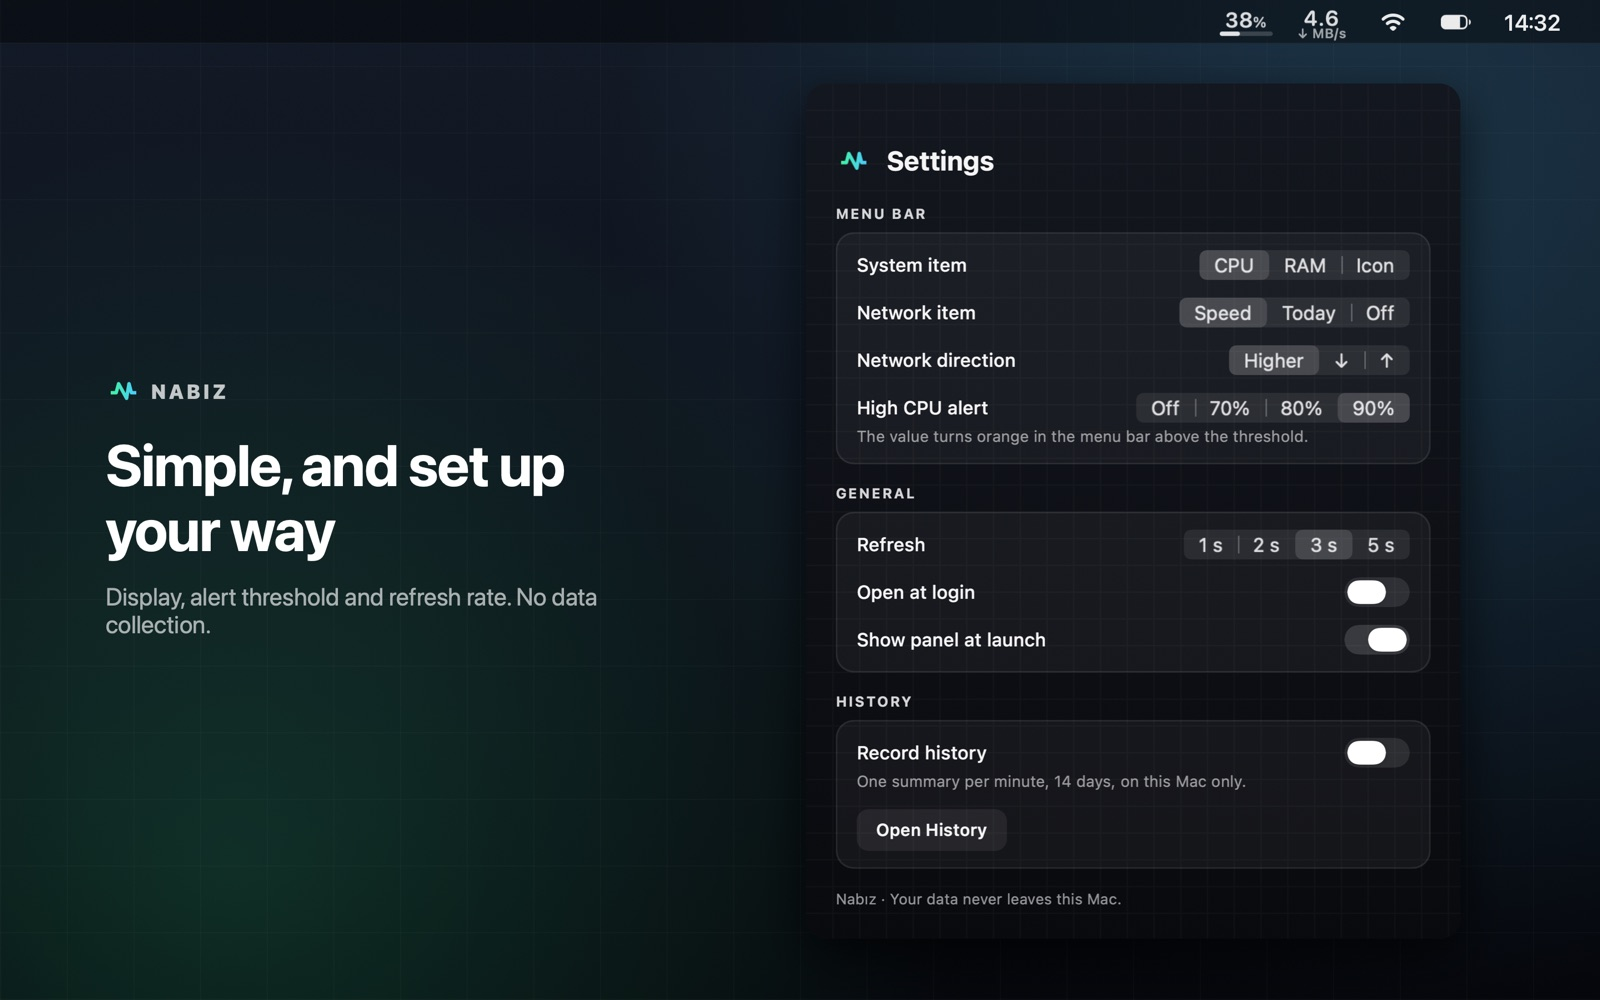
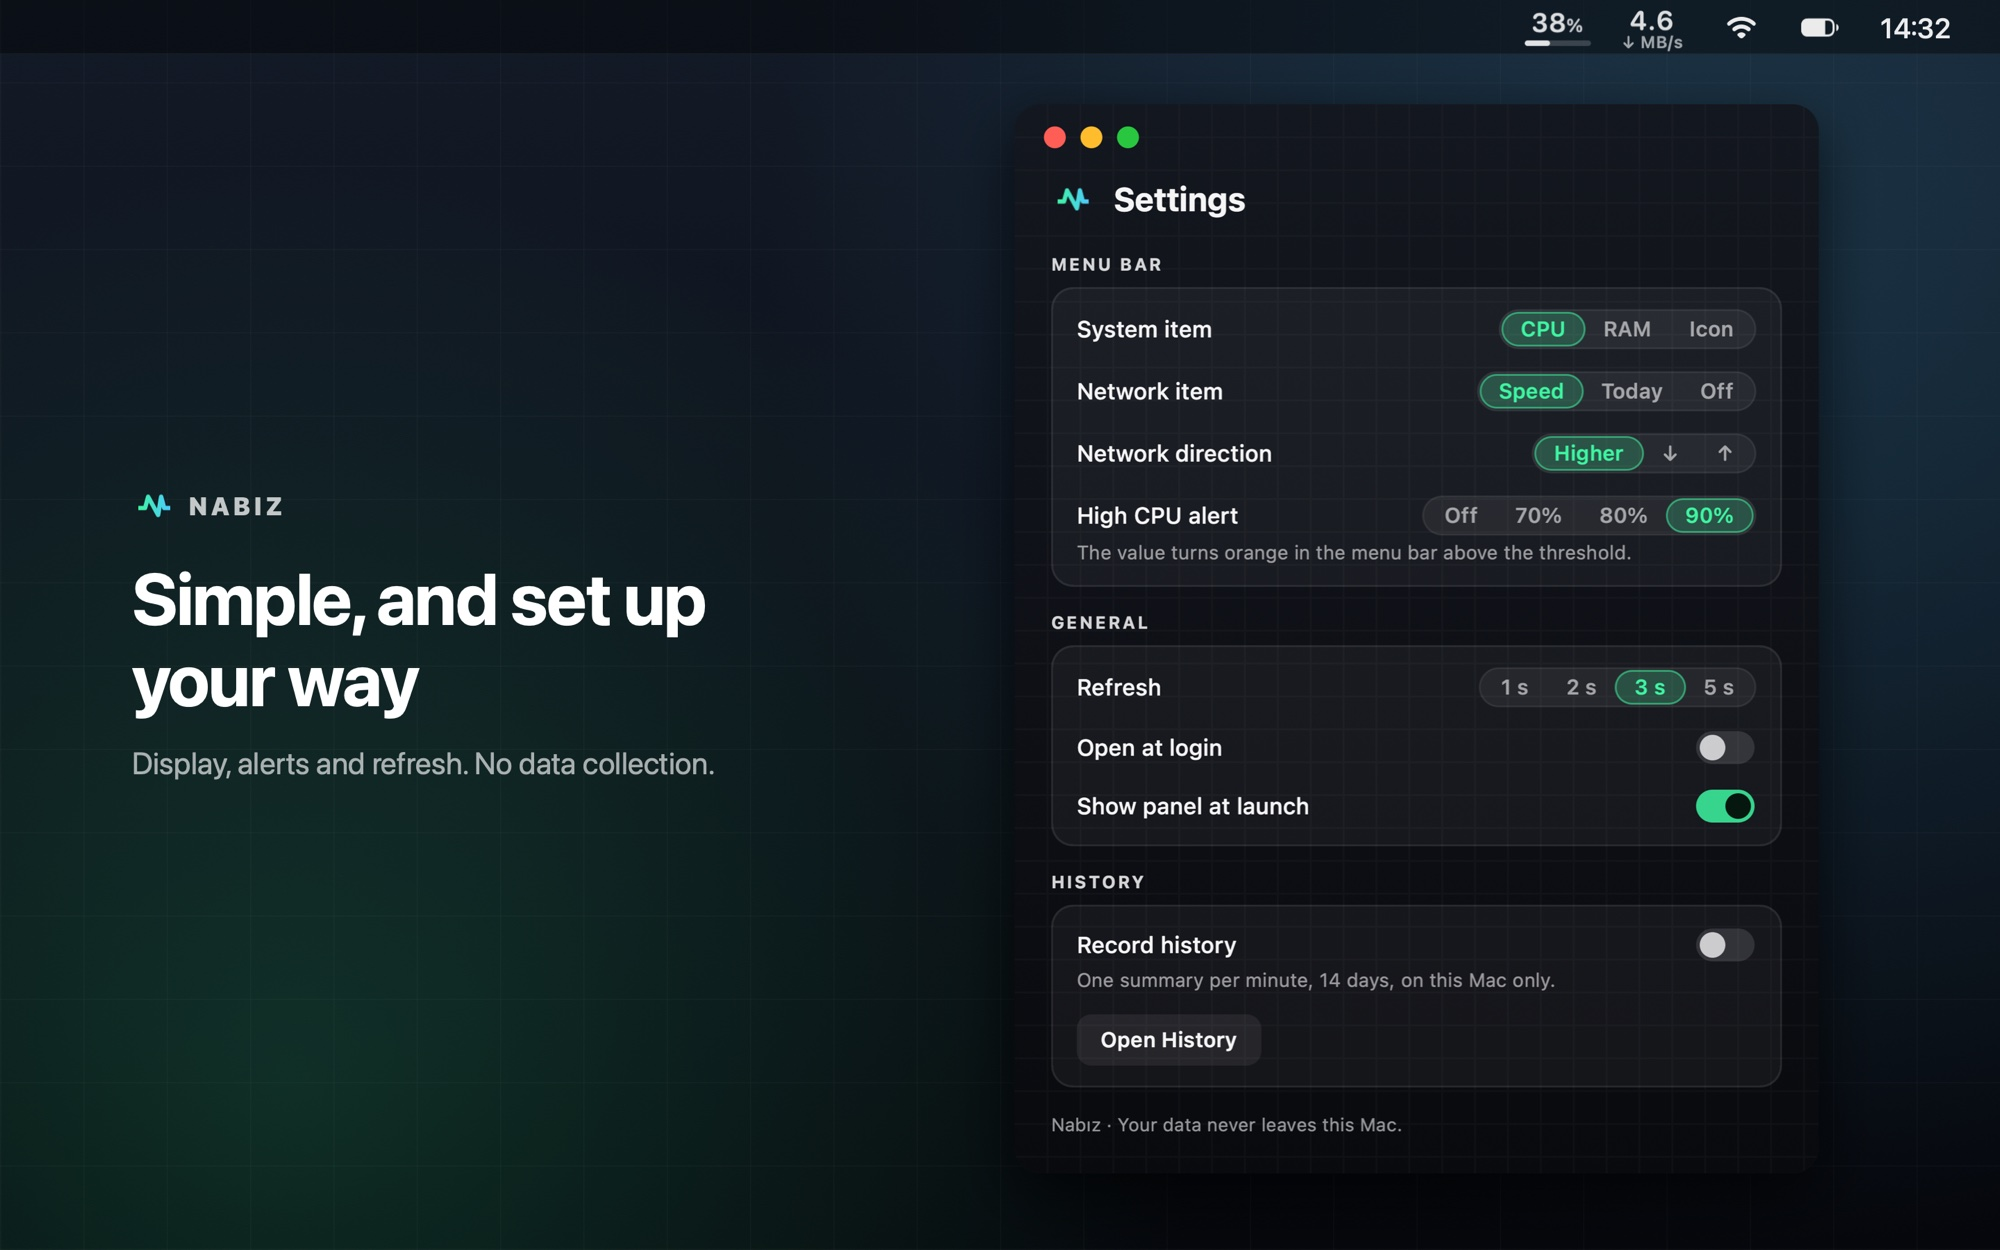
Custom green controls, roomier menu bar items, sharper images

diff --git a/app/Panels.swift b/app/Panels.swift
@@ -17,6 +17,8 @@ enum Vital {
     static let faint=NSColor(white:1,alpha:0.34)
     static let surface=NSColor(white:1,alpha:0.045)
     static let line=NSColor(white:1,alpha:0.08)
+    /// Seçili bölüm (segmented) rengi: pencere etkin olmasa da seçim okunur.
+    static let accent=NSColor(srgbRed:0.16,green:0.47,blue:0.86,alpha:1)
 }
 
 /// Panellerin ortak eylemleri. AppDelegate bağlar; paneller yalnız gösterir.
@@ -505,4 +507,62 @@ enum NabizMark {
             return true
         }
     }
+}
+
+/// Nabız anahtarı: açıkken yeşil, kapalıyken sönük. Pencere etkin olmasa da durumu okunur.
+final class PulseSwitch: NSControl {
+    var state:NSControl.StateValue = .off {didSet{needsDisplay=true;setAccessibilityValue(state == .on ? 1:0)}}
+    override init(frame:NSRect){super.init(frame:frame);translatesAutoresizingMaskIntoConstraints=false
+        NSLayoutConstraint.activate([widthAnchor.constraint(equalToConstant:34),heightAnchor.constraint(equalToConstant:20)])
+        setAccessibilityElement(true);setAccessibilityRole(.checkBox)}
+    convenience init(){self.init(frame:.zero)}
+    required init?(coder:NSCoder){fatalError()}
+    override var intrinsicContentSize:NSSize {NSSize(width:34,height:20)}
+    override func draw(_ dirtyRect:NSRect) {
+        let on=state == .on,track=bounds.insetBy(dx:1,dy:1)
+        (on ? Vital.cpu.withAlphaComponent(0.85):NSColor(white:1,alpha:0.12)).setFill()
+        NSBezierPath(roundedRect:track,xRadius:track.height/2,yRadius:track.height/2).fill()
+        let d=track.height-4,knob=NSRect(x:on ? track.maxX-d-2:track.minX+2,y:track.minY+2,width:d,height:d)
+        (on ? NSColor(srgbRed:0.02,green:0.09,blue:0.06,alpha:1):NSColor(white:1,alpha:0.75)).setFill()
+        NSBezierPath(ovalIn:knob).fill()
+    }
+    override func mouseDown(with event:NSEvent){state = state == .on ? .off:.on;sendAction(action,to:target)}
+    override func accessibilityPerformPress()->Bool{mouseDown(with:NSEvent());return true}
+    override func acceptsFirstMouse(for event:NSEvent?)->Bool{true}
+}
+
+/// Nabız bölümlü seçici: kapsül iz, seçili bölüm yeşil dolgulu.
+final class PulseSegments: NSControl {
+    let labels:[String]
+    var selectedSegment=0 {didSet{needsDisplay=true;setAccessibilityValue(labels.indices.contains(selectedSegment) ? labels[selectedSegment]:"")}}
+    private let labelFont=NSFont.systemFont(ofSize:11.5,weight:.semibold)
+    private var widths:[CGFloat] {labels.map{ceil(NSAttributedString(string:$0,attributes:[.font:labelFont]).size().width)+20}}
+    init(labels:[String]){self.labels=labels;super.init(frame:.zero);translatesAutoresizingMaskIntoConstraints=false
+        setAccessibilityElement(true);setAccessibilityRole(.radioGroup)}
+    required init?(coder:NSCoder){fatalError()}
+    override var intrinsicContentSize:NSSize {NSSize(width:widths.reduce(4,+),height:22)}
+    private func rects()->[NSRect] {
+        var x:CGFloat=2;return widths.map{w in defer{x+=w};return NSRect(x:x,y:2,width:w,height:bounds.height-4)}
+    }
+    override func draw(_ dirtyRect:NSRect) {
+        let track=bounds.insetBy(dx:0.5,dy:0.5)
+        NSColor(white:1,alpha:0.06).setFill();let tp=NSBezierPath(roundedRect:track,xRadius:track.height/2,yRadius:track.height/2);tp.fill()
+        Vital.line.setStroke();tp.lineWidth=1;tp.stroke()
+        for (i,r) in rects().enumerated() {
+            let selected=i==selectedSegment
+            if selected {
+                Vital.cpu.withAlphaComponent(0.2).setFill()
+                let p=NSBezierPath(roundedRect:r,xRadius:r.height/2,yRadius:r.height/2);p.fill()
+                Vital.cpu.withAlphaComponent(0.55).setStroke();p.lineWidth=1;p.stroke()
+            }
+            let s=NSAttributedString(string:labels[i],attributes:[.font:labelFont,.foregroundColor:selected ? Vital.cpu:Vital.dim])
+            let size=s.size();s.draw(at:NSPoint(x:r.midX-size.width/2,y:r.midY-size.height/2))
+        }
+    }
+    override func mouseDown(with event:NSEvent) {
+        let p=convert(event.locationInWindow,from:nil)
+        guard let i=rects().firstIndex(where:{$0.contains(p)}),i != selectedSegment else {return}
+        selectedSegment=i;sendAction(action,to:target)
+    }
+    override func acceptsFirstMouse(for event:NSEvent?)->Bool{true}
 }

diff --git a/app/Settings.swift b/app/Settings.swift
@@ -52,15 +52,15 @@ final class SettingsController:NSWindowController,NSWindowDelegate {
     var onOpenHistory:(()->Void)?
     var onClose:(()->Void)?
 
-    private let systemMode=NSSegmentedControl(labels:[L("CPU","CPU"),L("RAM","RAM"),L("Simge","Icon")],trackingMode:.selectOne,target:nil,action:nil)
-    private let networkMode=NSSegmentedControl(labels:[L("Hız","Speed"),L("Bugün","Today"),L("Gizli","Off")],trackingMode:.selectOne,target:nil,action:nil)
-    private let direction=NSSegmentedControl(labels:[L("Büyük olan","Higher"),"↓","↑"],trackingMode:.selectOne,target:nil,action:nil)
-    private let alert=NSSegmentedControl(labels:[L("Kapalı","Off")]+Prefs.thresholds.map{"\($0)%"},trackingMode:.selectOne,target:nil,action:nil)
-    private let interval=NSSegmentedControl(labels:Prefs.intervals.map{"\($0) "+L("sn","s")},trackingMode:.selectOne,target:nil,action:nil)
-    private let login=NSSwitch()
+    private let systemMode=PulseSegments(labels:[L("CPU","CPU"),L("RAM","RAM"),L("Simge","Icon")])
+    private let networkMode=PulseSegments(labels:[L("Hız","Speed"),L("Bugün","Today"),L("Gizli","Off")])
+    private let direction=PulseSegments(labels:[L("Büyük olan","Higher"),"↓","↑"])
+    private let alert=PulseSegments(labels:[L("Kapalı","Off")]+Prefs.thresholds.map{"\($0)%"})
+    private let interval=PulseSegments(labels:Prefs.intervals.map{"\($0) "+L("sn","s")})
+    private let login=PulseSwitch()
     private let loginNote=NSTextField(wrappingLabelWithString:"")
-    private let showOnLaunch=NSSwitch()
-    private let history=NSSwitch()
+    private let showOnLaunch=PulseSwitch()
+    private let history=PulseSwitch()
     private var directionRow:NSView!
     private let root=NSStackView()
 
@@ -74,8 +74,8 @@ final class SettingsController:NSWindowController,NSWindowDelegate {
         root.translatesAutoresizingMaskIntoConstraints=false;background.addSubview(root)
         NSLayoutConstraint.activate([root.leadingAnchor.constraint(equalTo:background.leadingAnchor,constant:20),root.topAnchor.constraint(equalTo:background.topAnchor,constant:40),root.widthAnchor.constraint(equalToConstant:Self.width)])
 
-        for control in [systemMode,networkMode,direction,alert,interval] {control.target=self;control.action=#selector(changed);control.controlSize = .small;control.segmentStyle = .rounded}
-        for control in [login,showOnLaunch,history] {control.target=self;control.controlSize = .small}
+        for control in [systemMode,networkMode,direction,alert,interval] {control.target=self;control.action=#selector(changed);}
+        for control in [login,showOnLaunch,history] {control.target=self}
         showOnLaunch.action=#selector(changed);login.action=#selector(toggleLogin);history.action=#selector(toggleHistory)
 
         let mark=NSImageView(image:NabizMark.image(size:24));mark.translatesAutoresizingMaskIntoConstraints=false

diff --git a/app/StoreShots.swift b/app/StoreShots.swift
@@ -24,7 +24,14 @@ func windowRep(_ w:NSWindow,dark:Bool)->NSBitmapImageRep {
     v.appearance=w.appearance
     v.effectiveAppearance.performAsCurrentDrawingAppearance{v.layer?.backgroundColor=NSColor.windowBackgroundColor.cgColor}
     v.layer?.cornerRadius=14
-    return hires(v)
+    let rep=hires(v)
+    // Pencere düğmeleri: başlık şeridi boş görünmesin.
+    NSGraphicsContext.saveGraphicsState();NSGraphicsContext.current=NSGraphicsContext(bitmapImageRep:rep)
+    for (i,c) in [NSColor(srgbRed:1,green:0.37,blue:0.34,alpha:1),NSColor(srgbRed:1,green:0.74,blue:0.18,alpha:1),NSColor(srgbRed:0.16,green:0.78,blue:0.25,alpha:1)].enumerated() {
+        c.setFill();NSBezierPath(ovalIn:NSRect(x:16+CGFloat(i)*20,y:rep.size.height-24,width:12,height:12)).fill()
+    }
+    NSGraphicsContext.restoreGraphicsState()
+    return rep
 }
 // 2880x1800 kompozisyon: koyu monitör zemini, üstte gerçek menü çubuğu öğeleri, solda başlık, sağda arayüz.
 let W=2880,H=1800
@@ -152,6 +159,6 @@ compose("01",title:L("Mac'inizin nabzı, menü çubuğunda","Your Mac's pulse, i
 compose("02",title:L("İndirme ve gönderme, ayrı ayrı","Download and upload, side by side"),subtitle:L("Canlı hız grafiği, bugün ve son 7 günün trafiği.","A live speed graph plus today's and the last 7 days' traffic."),images:[panelRep(net,dark:true)],menuHighlight:1)
 compose("03",title:L("İki öğe, iki panel","Two items, two panels"),subtitle:L("Menü çubuğunda az yer kaplar; her öğe kendi panelini açar.","Takes little menu bar space; each item opens its own panel."),images:[panelRep(sys,dark:true),panelRep(net,dark:true)],layout:.stack)
 compose("04",title:L("Mac'iniz ne zaman zorlandı?","When did your Mac work hardest?"),subtitle:L("İsteğe bağlı 14 günlük geçmiş, yalnız bu Mac'te saklanır.","Optional 14-day history, stored only on this Mac."),images:[windowRep(history.window!,dark:true)])
-compose("05",title:L("Sade ve sizin için ayarlı","Simple, and set up your way"),subtitle:L("Gösterge, uyarı eşiği ve yenileme aralığı. Veri toplama yok.","Display, alert threshold and refresh rate. No data collection."),images:[windowRep(settings.window!,dark:true)])
+compose("05",title:L("Sade ve sizin için ayarlı","Simple, and set up your way"),subtitle:L("Gösterge, uyarı ve yenileme. Veri toplanmaz.","Display, alerts and refresh. No data collection."),images:[windowRep(settings.window!,dark:true)])
 compose("hero",title:"",subtitle:"",images:[panelRep(sys,dark:true),panelRep(net,dark:true)],layout:.bare,menuHighlight:0)
 print("ok")

diff --git a/app/MenuMeter.swift b/app/MenuMeter.swift
@@ -42,9 +42,9 @@ final class MenuMeter: NSView {
             let line=NSMutableAttributedString(string:number,attributes:[.font:Self.valueFont,.foregroundColor:tint])
             if number != "—" {line.append(NSAttributedString(string:"%",attributes:[.font:Self.percentFont,.foregroundColor:tint.withAlphaComponent(0.75)]))}
             let size=line.size()
-            line.draw(at:NSPoint(x:(bounds.width-size.width)/2,y:offset+7.5+Self.valueFont.descender))
+            line.draw(at:NSPoint(x:(bounds.width-size.width)/2,y:offset+8.5+Self.valueFont.descender))
             // İnce gösterge: RAM modunda dört bölmeli, CPU modunda düz.
-            let track=NSRect(x:3,y:offset+3,width:bounds.width-6,height:2.5)
+            let track=NSRect(x:3,y:offset+2.5,width:bounds.width-6,height:2.5)
             foreground.withAlphaComponent(0.18).setFill()
             NSBezierPath(roundedRect:track,xRadius:1.25,yRadius:1.25).fill()
             if let level {
@@ -65,8 +65,8 @@ final class MenuMeter: NSView {
         let amount=parts.count==2 ? parts[1]:traffic
         let unitStart=amount.firstIndex(where:{$0.isLetter}) ?? amount.endIndex
         let number=String(amount[..<unitStart]),unit=String(amount[unitStart...])
-        centered(number,font:Self.valueFont,color:valueColor,baseline:offset+8.5)
-        centered([direction,unit].filter{!$0.isEmpty}.joined(separator:" "),font:Self.unitFont,color:secondary,baseline:offset+1.5)
+        centered(number,font:Self.valueFont,color:valueColor,baseline:offset+9.5)
+        centered([direction,unit].filter{!$0.isEmpty}.joined(separator:" "),font:Self.unitFont,color:secondary,baseline:offset+1.25)
     }
 
     private func centered(_ value:String,font:NSFont,color:NSColor,baseline:CGFloat) {

diff --git a/app/History.swift b/app/History.swift
@@ -177,8 +177,8 @@ final class SummaryTile: NSView {
 
 final class HistoryController:NSWindowController,NSWindowDelegate {
     static let contentWidth:CGFloat=480
-    let enabled=NSSwitch()
-    let range=NSSegmentedControl(labels:[L("Bugün","Today"),L("7 gün","7 days"),L("14 gün","14 days")],trackingMode:.selectOne,target:nil,action:nil)
+    let enabled=PulseSwitch()
+    let range=PulseSegments(labels:[L("Bugün","Today"),L("7 gün","7 days"),L("14 gün","14 days")])
     private let strain=SummaryTile(HistoryTerms.tile,color:Vital.heat)
     private let hottest=SummaryTile(L("EN SICAK","HOTTEST"),color:Vital.heat)
     private let network=SummaryTile(L("AĞ","NETWORK"),color:Vital.down)
